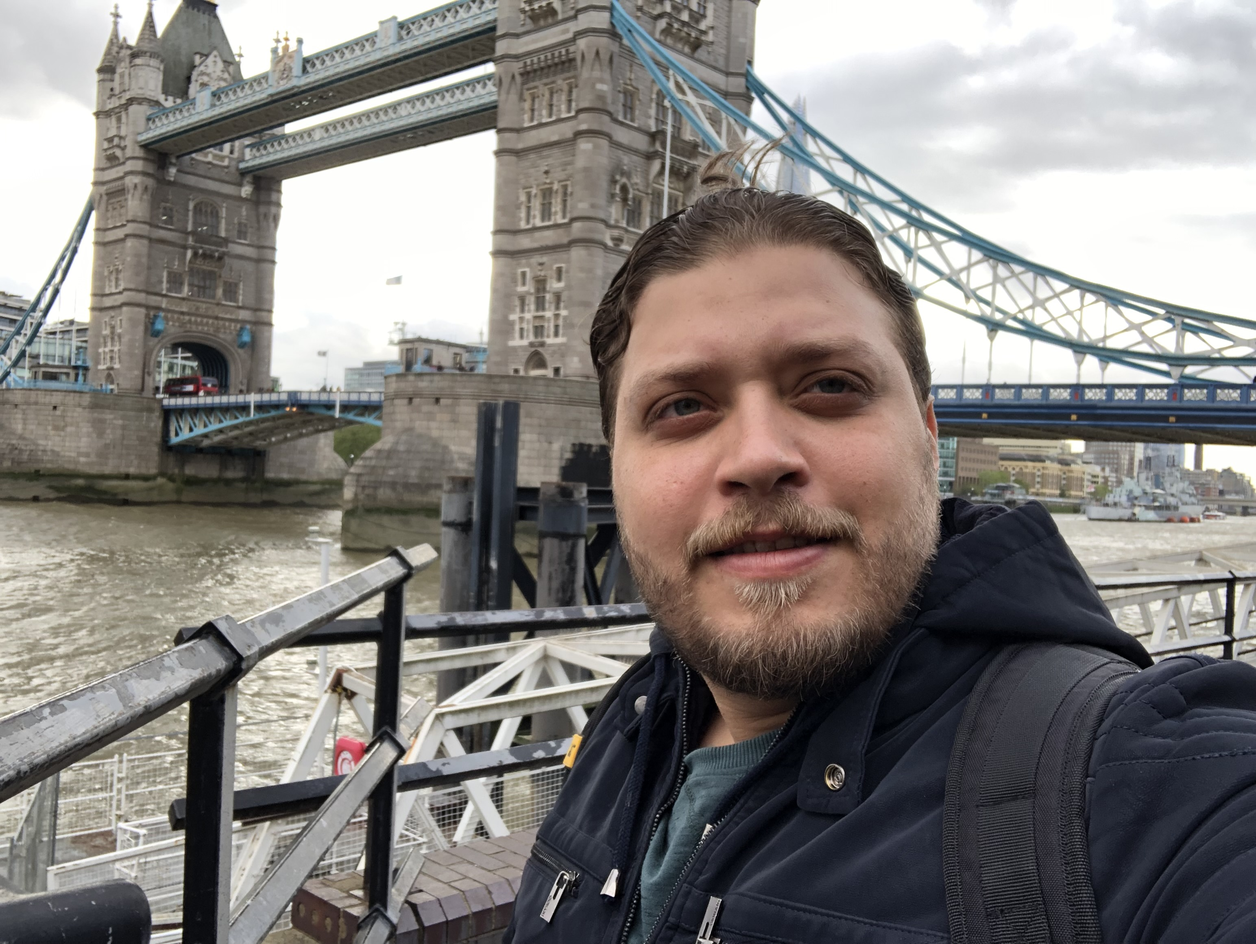
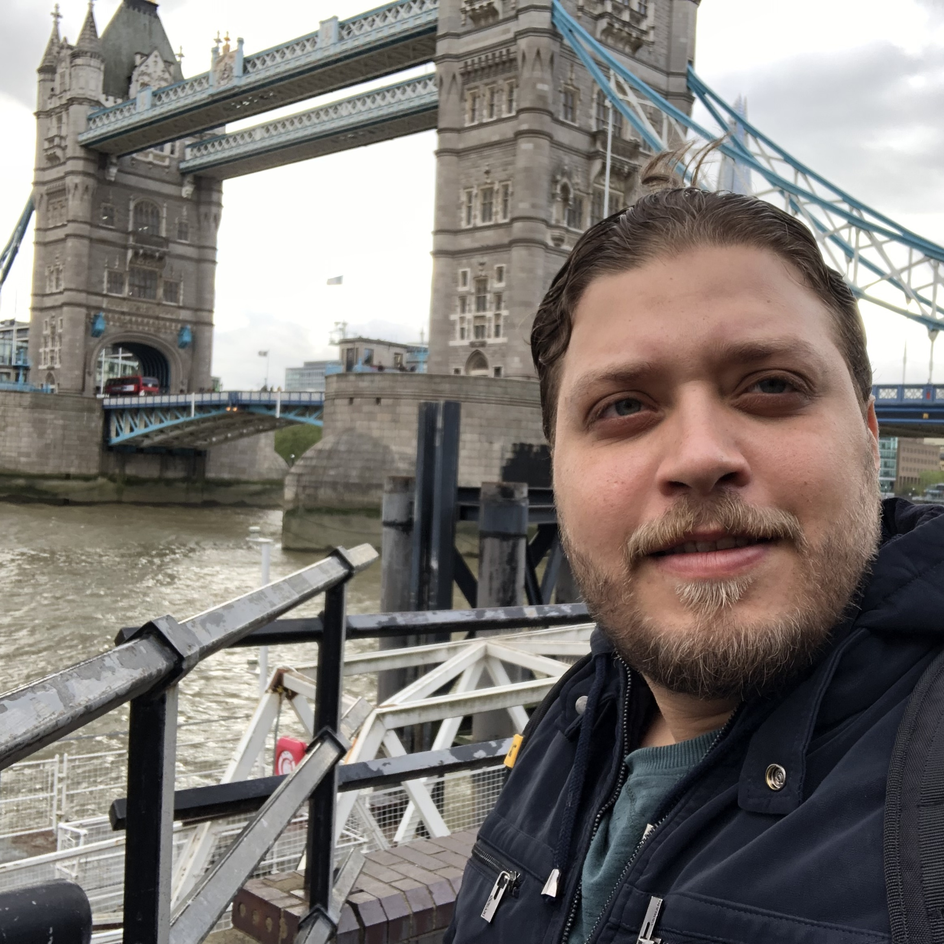
Fix Home screen styles

diff --git a/index.html b/index.html
@@ -1,36 +1,44 @@
 <!DOCTYPE html>
 <html lang="en">
-	<head>
-		<meta charset="utf-8"/>
-		<title>Home Page</title>
-	</head>
-	<body>
-		<p>
-			<img src="images/marwan.jpg" alt="Personal Picture" title="Marwan Nassef" width="200">
-		</p>
-		<h1>Marwan Nassef</h1>
-		<ul>
-			<li>
-				W1D1 - This homepage
-			</li>
-			<li>
-				W1D2 - About Me
-			</li>
-			<li>
-				W1D3 - Recipe
-			</li>
-			<li>
-				W1D4 - Movie Review
-			</li>
-			<li>
-				W1D5 - MP3 Library
-			</li>
-			<li>
-				W1D6 - Movie Review PHP
-			</li>
-		</ul>
+<head>
+	<meta charset="utf-8"/>
+	<title>Home Page</title>
+	<link rel="stylesheet" href="css/styleme.css"/>
+</head>
+<body>
+	<p>
+		<img src="images/marwan.jpg" alt="Personal Picture" title="Marwan Nassef" class="profile-class">
+	</p>
+	<h1>Marwan Nassef</h1>
+	<ul>
+		<li>
+			<a href="index.html" >W1D1 - This homepage</a>
+		</li>
+		<li>
+			<a href="aboutme.html" >W1D2 - About Me</a>
+		</li>
+		<li>
+			<a href="https://www.imdb.com/list/ls072049366/" >W1D2 - Recipe</a>
+		</li>
+		<li>
+			W1D4 - Movie Review
+		</li>
+		<li>
+			W1D5 - MP3 Library
+		</li>
+		<li>
+			W1D6 - Movie Review PHP
+		</li>
+	</ul>
+	<p>
 		<a href="https://validator.w3.org/check/referer">
-			<img src="http://mumstudents.org/cs472/2014-09/images/w3c-html.png" alt="html validator">
+			<img src="http://mumstudents.org/cs472/2014-09/images/w3c-html.png"
+				 alt="html validator"/>
 		</a>
-	</body>
+		<a href="https://jigsaw.w3.org/css-validator/check/referer">
+			<img src=http://jigsaw.w3.org/css-validator/images/vcss
+				 alt="Valid CSS!"/>
+		</a>
+	</p>
+</body>
 </html>

diff --git a/aboutme.html b/aboutme.html
@@ -1,8 +1,9 @@
 <!DOCTYPE html>
 <HTML lang="en">
-<head><title> AboutMe
-</title>
-<link rel="stylesheet" href="css/styleme.css"/>
+<head>
+	<meta charset="utf-8"/>
+	<title>AboutMe</title>
+	<link rel="stylesheet" href="css/styleme.css"/>
 </head>
 
 <body>
@@ -47,11 +48,11 @@
     <li>Salam: he always high.</li>
 </ul>
 
-<p><a href="https://validator.w3.org/check/referer">
-    <img src="http://mumstudents.org/cs472/2014-09/images/w3c-html.png"
-         alt="html validator"/>
-</a></p>
 <p>
+	<a href="https://validator.w3.org/check/referer">
+		<img src="http://mumstudents.org/cs472/2014-09/images/w3c-html.png"
+			 alt="html validator"/>
+	</a>
     <a href="https://jigsaw.w3.org/css-validator/check/referer">
         <img src=http://jigsaw.w3.org/css-validator/images/vcss
              alt="Valid CSS!"/>

diff --git a/css/styleme.css b/css/styleme.css
@@ -1,5 +1,15 @@
-body
-{
+html, body {
+    height: 100%;
+}
+
+html {
+    display: table;
+    margin: auto;
+}
+
+body {
+    display: table-cell;
+    vertical-align: middle;
 	color: white;
 	background-color: darkgray;
 }
@@ -19,7 +29,13 @@ dt, strong
 	color: red;
 }
 
-.neighbors-class{
+.neighbors-class
+{
     font-family: sans-serif;
 }
 
+.profile-class
+{
+	border-radius: 50%;
+	width:200px;
+}
